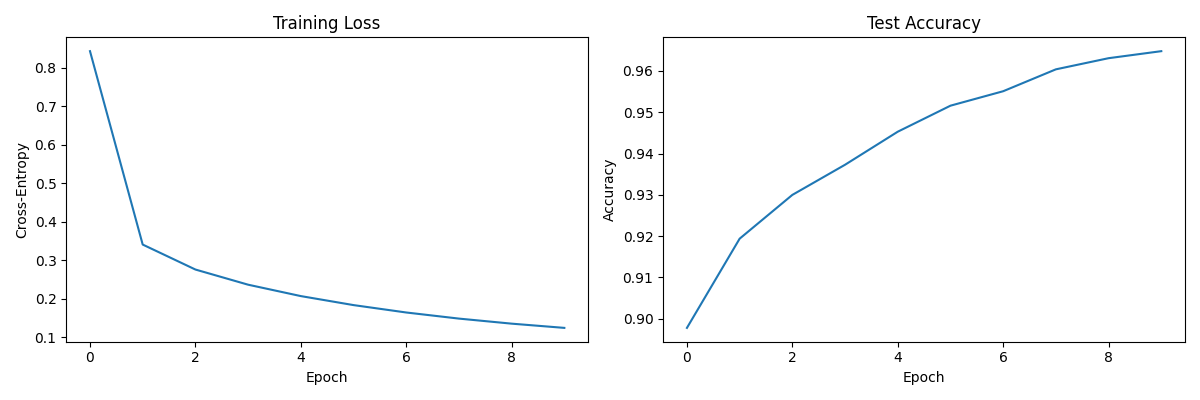
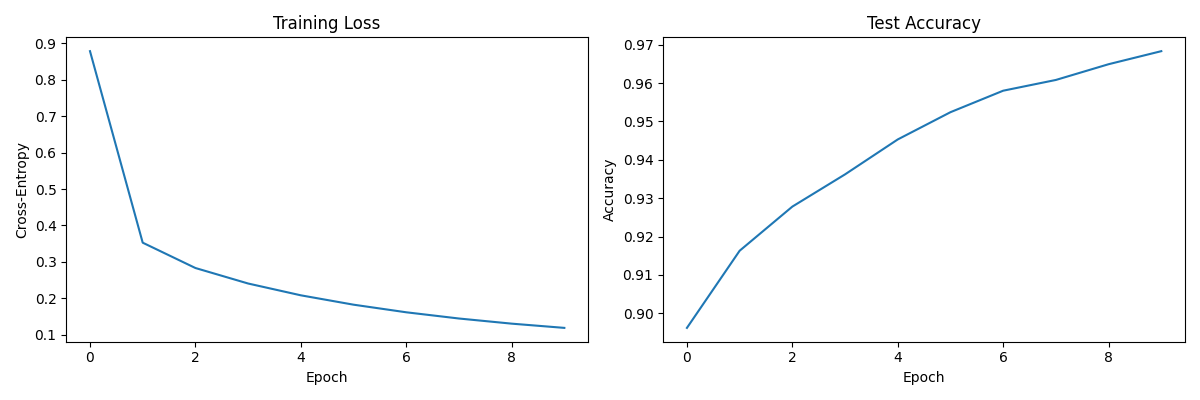
Add pptx

diff --git a/fourth/Lib.py b/fourth/Lib.py
@@ -1,0 +1,48 @@
+import tensorflow as tf
+from tensorflow.keras import layers, models
+from tensorflow.keras.datasets import mnist
+import matplotlib.pyplot as plt
+
+(x_train, y_train), (x_test, y_test) = mnist.load_data()
+x_train = x_train.astype('float32') / 255.0
+x_test = x_test.astype('float32') / 255.0
+
+x_train = tf.pad(x_train, [[0,0],[2,2],[2,2]]).numpy()
+x_test = tf.pad(x_test, [[0,0],[2,2],[2,2]]).numpy()
+
+x_train = x_train[..., tf.newaxis]
+x_test = x_test[..., tf.newaxis]
+
+
+y_train = tf.keras.utils.to_categorical(y_train, 10)
+y_test = tf.keras.utils.to_categorical(y_test, 10)
+
+model = models.Sequential([
+    layers.Conv2D(6, (5,5), activation='tanh', input_shape=(32,32,1)),
+    layers.AveragePooling2D((2,2), strides=2),
+    layers.Conv2D(16, (5,5), activation='tanh'),
+    layers.AveragePooling2D((2,2), strides=2),
+    layers.Flatten(),
+    layers.Dense(120, activation='tanh'),
+    layers.Dense(84, activation='tanh'),
+    layers.Dense(10, activation='softmax')
+])
+
+model.compile(optimizer='sgd', loss='categorical_crossentropy', metrics=['accuracy'])
+history = model.fit(x_train, y_train, batch_size=64, epochs=10, validation_data=(x_test, y_test))
+
+plt.figure(figsize=(12,4))
+plt.subplot(1,2,1)
+plt.plot(history.history['loss'], label='train')
+plt.plot(history.history['val_loss'], label='test')
+plt.title('Loss')
+plt.legend()
+
+plt.subplot(1,2,2)
+plt.plot(history.history['accuracy'], label='train')
+plt.plot(history.history['val_accuracy'], label='test')
+plt.title('Accuracy')
+plt.legend()
+plt.tight_layout()
+plt.savefig('library_training.png')
+plt.show()

diff --git a/fourth/First.py b/fourth/First.py
@@ -52,11 +52,6 @@ test_labels_onehot = one_hot(test_labels)
 
 
 def im2col(images, kernel_h, kernel_w, stride, pad=0):
-    """
-    Convert image batch to column matrix for convolution.
-    images: (n, c, h, w)
-    Returns: cols (n*out_h*out_w, c*kernel_h*kernel_w), out_h, out_w
-    """
     n, c, h, w = images.shape
     out_h = (h + 2*pad - kernel_h) // stride + 1
     out_w = (w + 2*pad - kernel_w) // stride + 1
@@ -72,11 +67,7 @@ def im2col(images, kernel_h, kernel_w, stride, pad=0):
     return cols, out_h, out_w
 
 def col2im(cols, shape, kernel_h, kernel_w, stride, pad=0):
-    """
-    Inverse of im2col.
-    cols: (n*out_h*out_w, c*kernel_h*kernel_w)
-    shape: (n, c, h, w) original input shape
-    """
+
     n, c, h, w = shape
     out_h = (h + 2*pad - kernel_h) // stride + 1
     out_w = (w + 2*pad - kernel_w) // stride + 1
@@ -110,6 +101,7 @@ def cross_entropy_loss(y_pred, y_true):
     return -np.mean(np.sum(y_true * np.log(y_pred + eps), axis=1))
 
 
+#Сверточный слой
 class Conv2D:
     def __init__(self, in_channels, out_channels, kernel_size, stride=1, padding=0):
         self.in_channels = in_channels
@@ -117,7 +109,6 @@ class Conv2D:
         self.kernel_size = kernel_size
         self.stride = stride
         self.padding = padding
-        # Xavier initialization (for tanh)
         fan_in = in_channels * kernel_size * kernel_size
         fan_out = out_channels * kernel_size * kernel_size
         self.W = np.random.randn(out_channels, in_channels, kernel_size, kernel_size) * np.sqrt(2.0 / (fan_in + fan_out))
@@ -142,13 +133,15 @@ class Conv2D:
         n, c, out_h, out_w = dout.shape
         batch_size = n
         dout_flat = dout.transpose(0,2,3,1).reshape(-1, self.out_channels)
-        # Average gradients over batch
+
         self.dW = dout_flat.T.dot(self.cols).reshape(self.W.shape) / batch_size
         self.db = np.sum(dout_flat, axis=0) / batch_size
         dcols = dout_flat.dot(self.W.reshape(self.out_channels, -1))
         dx = col2im(dcols, self.x.shape, self.kernel_size, self.kernel_size, self.stride, self.padding)
         return dx
 
+
+#Класс среднего пуллинга
 class AvgPool2D:
     def __init__(self, pool_size=2, stride=2):
         self.pool_size = pool_size
@@ -178,6 +171,8 @@ class AvgPool2D:
                       j*self.stride:j*self.stride+self.pool_size] += dout[:, :, i, j][:, :, None, None] / (self.pool_size**2)
         return dx
 
+
+#Полносвязный слой
 class Dense:
     def __init__(self, in_features, out_features):
         # Xavier initialization
@@ -280,7 +275,7 @@ def train(model, X_train, y_train, X_test, y_test, epochs, batch_size, lr):
     test_accuracies = []
 
     for epoch in range(epochs):
-        # Shuffle
+
         perm = np.random.permutation(n)
         X_train = X_train[perm]
         y_train = y_train[perm]
@@ -322,7 +317,6 @@ train_losses, test_accuracies = train(model, X_train, y_train, X_test, y_test,
                                       epochs=10, batch_size=64, lr=0.01)
 print(f"Training time: {time()-start:.2f} seconds")
 
-# Plot results
 plt.figure(figsize=(12,4))
 plt.subplot(1,2,1)
 plt.plot(train_losses)